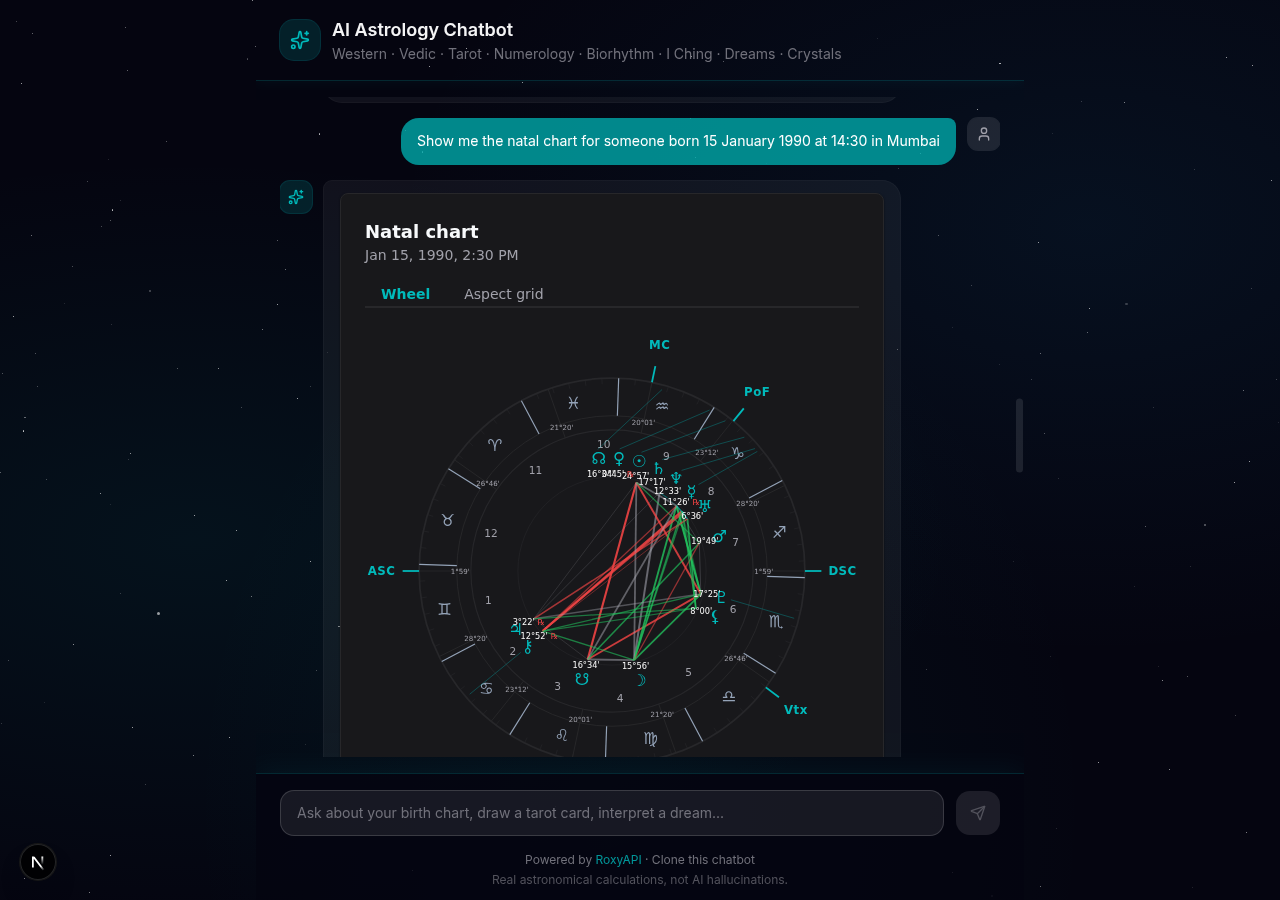
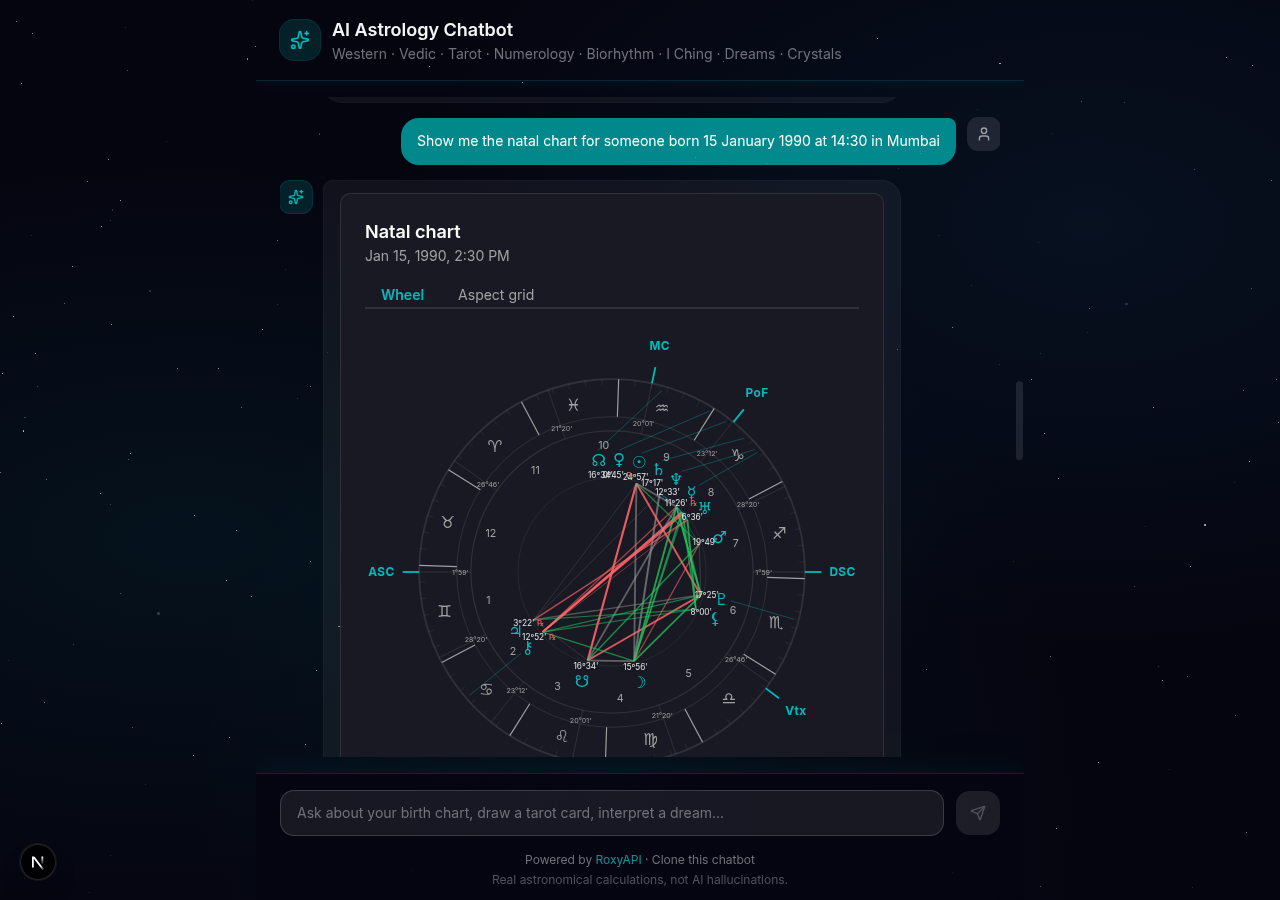
feat: the drawn results take the chat palette, so a chart is the same material as the bubble it arrives in

diff --git a/src/app/globals.css b/src/app/globals.css
@@ -7,8 +7,8 @@
 @theme inline {
   --color-background: var(--background);
   --color-foreground: var(--foreground);
-  --font-sans: var(--font-sans);
-  --font-mono: var(--font-geist-mono);
+  --font-sans: var(--font-app);
+  --font-mono: var(--font-app-mono);
   --color-sidebar-ring: var(--sidebar-ring);
   --color-sidebar-border: var(--sidebar-border);
   --color-sidebar-accent-foreground: var(--sidebar-accent-foreground);
@@ -45,9 +45,11 @@
   --radius-2xl: calc(var(--radius) * 1.8);
   --radius-3xl: calc(var(--radius) * 2.2);
   --radius-4xl: calc(var(--radius) * 2.6);
-  /* Roxy brand teal */
-  --color-roxy: oklch(0.70 0.15 195);
-  --color-roxy-dim: oklch(0.65 0.14 195);
+  /* Roxy brand teal. Declared in :root below and referenced here, because a value in
+     this block is inlined into utilities and cannot be read back at runtime, and the
+     widget bridge has to read it. */
+  --color-roxy: var(--accent-brand);
+  --color-roxy-dim: var(--accent-brand-dim);
 }
 
 :root {
@@ -84,12 +86,72 @@
   --sidebar-border: oklch(0.922 0 0);
   --sidebar-ring: oklch(0.708 0 0);
 
-  /* Tool-call widgets. One token rebrands every chart, spread and table, because
-     the accent text and the focus ring are derived from it. Dark styling comes
-     from the `dark` class already on <html>, which the components read. Every
-     token, its light and dark default and what it paints:
-     https://github.com/RoxyAPI/ui/blob/main/packages/ui/THEMING.md */
-  --roxy-accent: oklch(0.70 0.15 195);
+  --accent-brand: oklch(0.70 0.15 195);
+  --accent-brand-dim: oklch(0.65 0.14 195);
+
+  /* The faces, named once for the utilities, the prose and the drawings alike. The root
+     layout loads Inter under this exact family name, so a fork that swaps the face
+     changes it there and here. No monospace face is loaded, so that stack is the one the
+     system already has. */
+  --font-app: Inter, "Inter Fallback", system-ui, sans-serif;
+  --font-app-mono: ui-monospace, SFMono-Regular, Menlo, Consolas, monospace;
+
+  /*
+  The bridge to the components that draw a tool result. Every one of them reads
+  `--roxy-*`, so pointing those at the palette above is the whole of theming them, and
+  restyling a component is never the answer. Every value here is a reference rather
+  than a colour, so the palette moves the whole set and there is no second copy to keep
+  in step. Every token, its light and dark default and what it paints:
+  https://github.com/RoxyAPI/ui/blob/main/packages/ui/THEMING.md
+
+  The surface pairing is the one worth reading twice. `--roxy-surface` is the card a
+  drawing paints and nearly every component reaches for it, while `--roxy-bg` is only
+  the field behind an input, the sheet under a suggestion list and the ink on a filled
+  button. Mapping them the other way round puts a pale sheet on the starfield and hides
+  every button label. Both stay opaque: a drawn table pins one column while the rest
+  scrolls under it, and a see through column smears.
+
+  Three are deliberately absent. `--roxy-accent-ink` and `--roxy-ring` derive from the
+  accent, and the derived ring is the brand teal at 45 percent, which is the focus
+  treatment the chat input already gives itself. `--roxy-heat` derives from the danger
+  colour the same way. Setting any of the three breaks a derivation the library depends
+  on, so a test asserts they stay unset.
+  */
+  --roxy-bg: var(--background);
+  --roxy-surface: var(--surface-panel);
+  --roxy-fg: var(--foreground-soft);
+  --roxy-primary: var(--foreground);
+  --roxy-secondary: var(--muted-foreground);
+  --roxy-muted: var(--muted-foreground);
+  --roxy-border: var(--border);
+  --roxy-accent: var(--accent-brand);
+
+  --roxy-success: var(--success);
+  --roxy-success-fg: var(--success-ink);
+  --roxy-warning: var(--warning);
+  --roxy-warning-fg: var(--warning-ink);
+  --roxy-danger: var(--destructive);
+  --roxy-danger-fg: var(--destructive-ink);
+  --roxy-info: var(--info);
+  --roxy-info-fg: var(--info-ink);
+
+  --roxy-font-sans: var(--font-app);
+  --roxy-font-mono: var(--font-app-mono);
+
+  /* The same steps the theme block builds its radius scale from, and a test asserts the
+     two agree, because a ratio written twice is a ratio that drifts. The library rounds
+     a small mark with the small step, its card with the medium one, and an outer panel
+     with the large one, so those land on the small corner of this app, its base corner, and
+     the corner of the bubble the card sits in. */
+  --roxy-radius-sm: calc(var(--radius) * 0.6);
+  --roxy-radius-md: var(--radius);
+  --roxy-radius-lg: calc(var(--radius) * 1.8);
+
+  /* The chat separates surfaces with a ring and a hairline and never with a shadow, so
+     the drawings do too. */
+  --roxy-shadow-sm: none;
+  --roxy-shadow-md: none;
+  --roxy-shadow-lg: none;
 }
 
 .dark {
@@ -124,6 +186,22 @@
   --sidebar-accent-foreground: oklch(0.985 0 0);
   --sidebar-border: oklch(1 0 0 / 10%);
   --sidebar-ring: oklch(0.556 0 0);
+
+  /* The ink the transcript writes in, and the opaque twin of the material the chat is
+     built from: a bubble is white at 5 percent over the page and a field nested in one
+     is white at 8 percent, and this is that field already composited. */
+  --foreground-soft: oklch(0.920 0.004 286.3);
+  --surface-panel: oklch(0.218 0.019 284.7);
+
+  /* Status colours the base palette does not carry, at the lightness this ground needs.
+     Each `-ink` is the text partner for its colour, sized to read on a tint of it. */
+  --success: oklch(0.723 0.192 149.6);
+  --success-ink: oklch(0.871 0.136 154.4);
+  --warning: oklch(0.758 0.159 55.9);
+  --warning-ink: oklch(0.837 0.117 66.3);
+  --destructive-ink: oklch(0.808 0.103 19.6);
+  --info: oklch(0.754 0.139 232.7);
+  --info-ink: oklch(0.828 0.101 230.3);
 }
 
 @layer base {

diff --git a/tests/design-tokens.test.ts b/tests/design-tokens.test.ts
@@ -1,0 +1,129 @@
+import { readFileSync } from 'node:fs';
+import { join } from 'node:path';
+import { describe, expect, it } from 'vitest';
+
+/**
+ * The components that draw a tool result read their own `--roxy-*` tokens, and every
+ * surface, ink, border, status colour, face and corner they paint comes from one of
+ * them. Pointing the whole set at the app palette is what makes a drawn chart part
+ * of the chat rather than a card dropped into it, and a colour written here instead of
+ * a reference is the failure worth catching: it survives a palette change and then
+ * reads as a component from somewhere else.
+ *
+ * The app ships one theme, the dark one, so the bridge is declared once in `:root` and
+ * the palette it points at lives in `.dark`. Both blocks land on the same element, so
+ * every reference resolves against the values the app actually runs.
+ */
+
+const css = readFileSync(join(process.cwd(), 'src', 'app', 'globals.css'), 'utf8');
+
+function block(selector: string): string {
+  const match = css.match(new RegExp(`\\n${selector.replace('.', '\\.')} \\{([\\s\\S]*?)\\n\\}`));
+  if (!match) throw new Error(`No ${selector} block in globals.css`);
+  return match[1];
+}
+
+const root = block(':root');
+const dark = block('.dark');
+const theme = css.match(/@theme inline \{([\s\S]*?)\n\}/)?.[1] ?? '';
+
+/** Every `--roxy-*` token, and the app token it must read rather than restate. */
+const BRIDGE: Record<string, string> = {
+  'roxy-bg': 'background',
+  'roxy-surface': 'surface-panel',
+  'roxy-fg': 'foreground-soft',
+  'roxy-primary': 'foreground',
+  'roxy-secondary': 'muted-foreground',
+  'roxy-muted': 'muted-foreground',
+  'roxy-border': 'border',
+  'roxy-accent': 'accent-brand',
+  'roxy-success': 'success',
+  'roxy-success-fg': 'success-ink',
+  'roxy-warning': 'warning',
+  'roxy-warning-fg': 'warning-ink',
+  'roxy-danger': 'destructive',
+  'roxy-danger-fg': 'destructive-ink',
+  'roxy-info': 'info',
+  'roxy-info-fg': 'info-ink',
+};
+
+describe('the drawn tool results follow the palette', () => {
+  for (const [roxy, app] of Object.entries(BRIDGE)) {
+    it(`${roxy} reads the ${app} token rather than a value of its own`, () => {
+      expect(root).toMatch(new RegExp(`--${roxy}:\\s*var\\(--${app}[,)]`));
+    });
+
+    it(`${app} is declared somewhere the bridge can reach it`, () => {
+      expect(`${root}${dark}`).toMatch(new RegExp(`--${app}:\\s*[^;]+;`));
+    });
+  }
+
+  // Setting one of these would break a derivation the library depends on: the ink and
+  // the focus ring follow the accent, and the heat ramp follows the danger colour.
+  for (const derived of ['roxy-accent-ink', 'roxy-ring', 'roxy-heat']) {
+    it(`${derived} is left to derive rather than pinned`, () => {
+      expect(css).not.toMatch(new RegExp(`--${derived}:`));
+    });
+  }
+
+  it('never pins a colour of its own anywhere in the stylesheet', () => {
+    const pinned = [...css.matchAll(/--roxy-[a-z-]+:\s*([^;]+);/g)].filter(([, value]) =>
+      /#[0-9A-Fa-f]{3,8}\b|\brgba?\(|\bhsla?\(|\boklch\(|\blab\(/.test(value),
+    );
+    expect(pinned.map(([line]) => line.trim())).toEqual([]);
+  });
+
+  it('is declared once, because the palette it points at already moves with the theme', () => {
+    expect(dark).not.toContain('--roxy-');
+  });
+
+  it('draws in the same faces the prose beside it is set in', () => {
+    expect(root).toContain('--roxy-font-sans: var(--font-app);');
+    expect(root).toContain('--roxy-font-mono: var(--font-app-mono);');
+  });
+
+  it('names those faces once, where the utilities read them too', () => {
+    expect(root).toMatch(/--font-app:\s*[^;]+;/);
+    expect(root).toMatch(/--font-app-mono:\s*[^;]+;/);
+    expect(theme).toContain('--font-sans: var(--font-app);');
+    expect(theme).toContain('--font-mono: var(--font-app-mono);');
+  });
+
+  it('separates surfaces with a hairline rather than a shadow, like the rest of the chat', () => {
+    for (const step of ['sm', 'md', 'lg']) {
+      expect(root).toMatch(new RegExp(`--roxy-shadow-${step}:\\s*none;`));
+    }
+  });
+
+  /**
+   * The radius scale is stated twice, once for Tailwind and once for the components,
+   * because the theme block is inlined into utilities and cannot be read at runtime. A
+   * test between the two is what makes writing a ratio twice safe.
+   */
+  it('draws its corners from the same radius scale the rest of the app uses', () => {
+    for (const [roxyStep, appStep] of [
+      ['sm', 'sm'],
+      ['lg', '2xl'],
+    ] as const) {
+      const ratio = theme.match(
+        new RegExp(`--radius-${appStep}:\\s*calc\\(var\\(--radius\\) \\* ([0-9.]+)\\)`),
+      )?.[1];
+      expect(ratio).toBeDefined();
+      expect(root).toContain(`--roxy-radius-${roxyStep}: calc(var(--radius) * ${ratio});`);
+    }
+    expect(root).toContain('--roxy-radius-md: var(--radius);');
+    expect(theme).toContain('--radius-lg: var(--radius);');
+  });
+});
+
+describe('the brand accent has one home', () => {
+  it('is declared in the palette, where a stylesheet and the bridge can both read it', () => {
+    expect(root).toMatch(/--accent-brand:\s*oklch\([^;]+\);/);
+    expect(root).toMatch(/--accent-brand-dim:\s*oklch\([^;]+\);/);
+  });
+
+  it('is what the roxy utilities paint with, rather than a second copy of the value', () => {
+    expect(theme).toContain('--color-roxy: var(--accent-brand);');
+    expect(theme).toContain('--color-roxy-dim: var(--accent-brand-dim);');
+  });
+});

diff --git a/README.md b/README.md
@@ -111,15 +111,17 @@ Nothing is wired per tool. [`@roxyapi/ui-react`](https://www.npmjs.com/package/@
 | [`src/lib/tool-widgets.ts`](https://github.com/RoxyAPI/astrology-ai-chatbot/blob/main/src/lib/tool-widgets.ts) | Turns a chat message into the list of components to draw |
 | [`src/components/chat/ToolWidget.tsx`](https://github.com/RoxyAPI/astrology-ai-chatbot/blob/main/src/components/chat/ToolWidget.tsx) | Renders that list above the prose in the assistant bubble |
 
-Widgets follow the chat theme. The `dark` class in [`src/app/layout.tsx`](https://github.com/RoxyAPI/astrology-ai-chatbot/blob/main/src/app/layout.tsx) puts them in dark mode, and one token in [`globals.css`](https://github.com/RoxyAPI/astrology-ai-chatbot/blob/main/src/app/globals.css) sets the brand colour:
+Widgets wear the chat palette rather than a theme of their own. Every surface, ink, border, status colour, face and corner a drawing paints comes from a `--roxy-*` token, and [`globals.css`](https://github.com/RoxyAPI/astrology-ai-chatbot/blob/main/src/app/globals.css) points the whole set at the app palette in one block, so a chart is the same material as the bubble it arrives in:
 
 ```css
 :root {
-  --roxy-accent: oklch(0.70 0.15 195);
+  --roxy-surface: var(--surface-panel);
+  --roxy-accent: var(--accent-brand);
+  /* and the rest of the set */
 }
 ```
 
-Change that value and every chart, spread and table follows, accent text and focus ring included. [THEMING.md](https://github.com/RoxyAPI/ui/blob/main/packages/ui/THEMING.md) covers every token, its light and dark default and what it paints. The [UI components page](https://roxyapi.com/docs/ui) lists every component, and the [AI chat widgets tutorial](https://roxyapi.com/docs/tutorials/ai-chat-widgets) covers the same pattern for other chat frameworks and model vendors.
+Recolour the palette and the drawings follow, at any width. Restyling a component is never the answer, and `tests/design-tokens.test.ts` fails if a token is given a colour of its own. [THEMING.md](https://github.com/RoxyAPI/ui/blob/main/packages/ui/THEMING.md) covers every token, its light and dark default and what it paints. The [UI components page](https://roxyapi.com/docs/ui) lists every component, and the [AI chat widgets tutorial](https://roxyapi.com/docs/tutorials/ai-chat-widgets) covers the same pattern for other chat frameworks and model vendors.
 
 ## MCP Tool Discovery
 

diff --git a/AGENTS.md b/AGENTS.md
@@ -36,7 +36,7 @@ Every chart tool (Western, Vedic, Human Design, Forecast, Chinese astrology BaZi
 - `src/lib/ai.ts`, LLM provider switch. Add a provider by extending the model factory.
 - `src/app/api/chat/route.ts`, streaming chat handler wiring the LLM to discovered MCP tools.
 - `src/lib/tool-widgets.ts`, the map from a completed tool call to the component that draws its result. Pure and unit tested. Change what renders here, not in the view.
-- `src/components/chat/ToolWidget.tsx`, renders that list above the prose in the assistant bubble. Theme it with the `--roxy-*` tokens in `src/app/globals.css`, never by restyling the components. Every token, its light and dark default and what it paints: https://github.com/RoxyAPI/ui/blob/main/packages/ui/THEMING.md
+- `src/components/chat/ToolWidget.tsx`, renders that list above the prose in the assistant bubble. It is themed by the `--roxy-*` bridge in `src/app/globals.css`, which points every one of those tokens at the app palette, so recolour the palette and never restyle a component. `tests/design-tokens.test.ts` fails if a token is given a colour of its own or stops matching the radius scale. Every token, its light and dark default and what it paints: https://github.com/RoxyAPI/ui/blob/main/packages/ui/THEMING.md
 - `src/app/page.tsx` + `src/components/`, chat UI, styling, layout.
 
 ## Conventions
